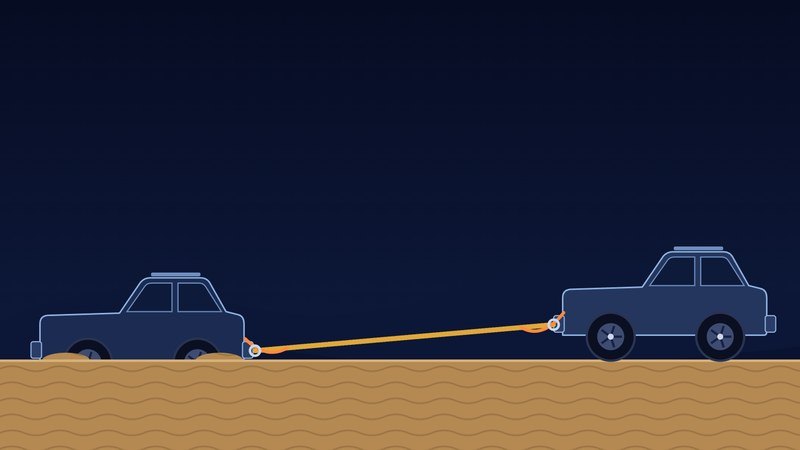
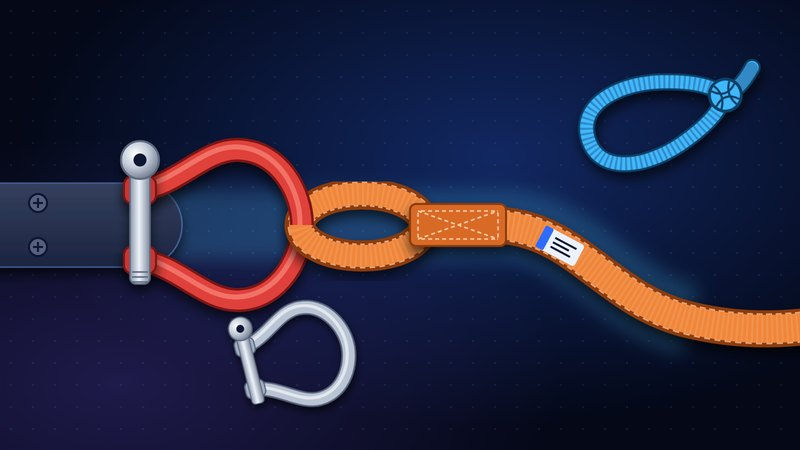
New card pictures: winch photo, and a drawing of shackles and a tow strap
Winch Planning and Sizing: the owner's own winch photo, cropped to 16:9.
Ropes and Shackles: a drawn flat lay of a tow strap through a bow shackle
on a recovery point, with a spare bow shackle and a soft shackle; its SVG
source is tools/ropes-card.html (noindex). Alt text and notes updated.

diff --git a/tools/ropes-card.html b/tools/ropes-card.html
@@ -1,0 +1,143 @@
+<!doctype html>
+<html><head><meta charset="utf-8"><meta name="robots" content="noindex">
+<!-- Source of assets/img/projects/ropes-recovery-gear.jpg (the Ropes and Shackles card).
+     Render at an 800x450 window, 2x scale (headless Edge/Chrome screenshot), then scale to 800x450 JPG. -->
+<style>html,body{margin:0;background:#040817}svg{display:block}</style></head>
+<body>
+<svg xmlns="http://www.w3.org/2000/svg" width="800" height="450" viewBox="0 0 800 450">
+  <defs>
+    <radialGradient id="glowA" cx="0.62" cy="0.35" r="0.6">
+      <stop offset="0" stop-color="#2f6bff" stop-opacity="0.32"/>
+      <stop offset="1" stop-color="#2f6bff" stop-opacity="0"/>
+    </radialGradient>
+    <radialGradient id="glowB" cx="0.15" cy="0.85" r="0.55">
+      <stop offset="0" stop-color="#7c5cff" stop-opacity="0.22"/>
+      <stop offset="1" stop-color="#7c5cff" stop-opacity="0"/>
+    </radialGradient>
+    <pattern id="dots" width="22" height="22" patternUnits="userSpaceOnUse">
+      <circle cx="11" cy="11" r="1" fill="#3fb6ff" fill-opacity="0.13"/>
+    </pattern>
+    <linearGradient id="plate" x1="0" y1="0" x2="0" y2="1">
+      <stop offset="0" stop-color="#34405e"/>
+      <stop offset="1" stop-color="#1b2440"/>
+    </linearGradient>
+    <linearGradient id="steel" x1="0" y1="0" x2="1" y2="0">
+      <stop offset="0" stop-color="#8a96aa"/>
+      <stop offset="0.45" stop-color="#eef3fa"/>
+      <stop offset="1" stop-color="#7d899d"/>
+    </linearGradient>
+    <radialGradient id="steelHead" cx="0.38" cy="0.35" r="0.7">
+      <stop offset="0" stop-color="#ffffff"/>
+      <stop offset="0.5" stop-color="#c3ccd9"/>
+      <stop offset="1" stop-color="#6d788c"/>
+    </radialGradient>
+    <filter id="shadow" x="-20%" y="-20%" width="140%" height="160%">
+      <feDropShadow dx="0" dy="7" stdDeviation="6" flood-color="#000" flood-opacity="0.65"/>
+    </filter>
+    <filter id="glow" filterUnits="userSpaceOnUse" x="-100" y="-100" width="1000" height="650">
+      <feGaussianBlur stdDeviation="9"/>
+    </filter>
+    <clipPath id="overTop"><rect x="0" y="0" width="800" height="225"/></clipPath>
+
+    <!-- a bow shackle, ears at x=0 (y -35 and +35), bow to the right -->
+    <path id="bowPath" d="M0,-35 C40,-41 65,-77 100,-75 C140,-73 162,-32 162,0 C162,32 140,73 100,75 C65,77 40,41 0,35"/>
+  </defs>
+
+  <!-- background -->
+  <rect width="800" height="450" fill="#040817"/>
+  <rect width="800" height="450" fill="url(#glowA)"/>
+  <rect width="800" height="450" fill="url(#glowB)"/>
+  <rect width="800" height="450" fill="url(#dots)"/>
+
+  <!-- soft glow behind the gear -->
+  <path d="M120,225 C300,225 420,225 500,225 C580,225 610,300 690,320" stroke="#4cc9ff" stroke-opacity="0.22" stroke-width="70" fill="none" filter="url(#glow)"/>
+
+  <!-- recovery point: a steel plate bolted on, coming in from the left -->
+  <g filter="url(#shadow)">
+    <path d="M-20,183 H140 A42,42 0 0 1 140,267 H-20 Z" fill="url(#plate)" stroke="#78aaff" stroke-opacity="0.35" stroke-width="1.5"/>
+    <circle cx="38" cy="203" r="9" fill="#55617d" stroke="#0b1330" stroke-width="2"/>
+    <circle cx="38" cy="247" r="9" fill="#55617d" stroke="#0b1330" stroke-width="2"/>
+    <path d="M33,203 h10 M38,198 v10 M33,247 h10 M38,242 v10" stroke="#0b1330" stroke-width="2"/>
+  </g>
+
+  <!-- red bow shackle on the recovery point (bow to the right) -->
+  <g transform="translate(140,225)">
+    <g filter="url(#shadow)">
+      <use href="#bowPath" fill="none" stroke="#7a1616" stroke-width="24" stroke-linecap="round"/>
+      <use href="#bowPath" fill="none" stroke="#e0413a" stroke-width="19" stroke-linecap="round"/>
+      <use href="#bowPath" fill="none" stroke="#ff9a8c" stroke-opacity="0.55" stroke-width="5" stroke-linecap="round" transform="translate(-2,-3)"/>
+    </g>
+  </g>
+
+  <!-- the strap's eye, looped round the bow -->
+  <g filter="url(#shadow)">
+    <ellipse cx="362" cy="225" rx="62" ry="31" fill="none" stroke="#8c3a10" stroke-width="31"/>
+    <ellipse cx="362" cy="225" rx="62" ry="31" fill="none" stroke="#ffc79a" stroke-opacity="0.75" stroke-width="25" stroke-dasharray="5 4"/>
+    <ellipse cx="362" cy="225" rx="62" ry="31" fill="none" stroke="#f0863a" stroke-width="22"/>
+    <ellipse cx="362" cy="225" rx="62" ry="31" fill="none" stroke="#ffffff" stroke-opacity="0.10" stroke-width="22" stroke-dasharray="2 3"/>
+  </g>
+
+  <!-- the top of the bow passes over the strap -->
+  <g clip-path="url(#overTop)">
+    <g transform="translate(140,225)">
+      <use href="#bowPath" fill="none" stroke="#7a1616" stroke-width="24" stroke-linecap="round"/>
+      <use href="#bowPath" fill="none" stroke="#e0413a" stroke-width="19" stroke-linecap="round"/>
+      <use href="#bowPath" fill="none" stroke="#ff9a8c" stroke-opacity="0.55" stroke-width="5" stroke-linecap="round" transform="translate(-2,-3)"/>
+    </g>
+  </g>
+
+  <!-- ears and pin -->
+  <g filter="url(#shadow)">
+    <rect x="124" y="176" width="32" height="28" rx="9" fill="#c93630" stroke="#7a1616" stroke-width="2"/>
+    <rect x="124" y="246" width="32" height="28" rx="9" fill="#c93630" stroke="#7a1616" stroke-width="2"/>
+    <rect x="130" y="168" width="20" height="116" rx="6" fill="url(#steel)" stroke="#5d6880" stroke-width="1.5"/>
+    <path d="M132,272 h16 M132,277 h16 M132,282 h16" stroke="#5d6880" stroke-width="1.5"/>
+    <circle cx="140" cy="160" r="19" fill="url(#steelHead)" stroke="#5d6880" stroke-width="2"/>
+    <circle cx="140" cy="160" r="6.5" fill="#0b1330"/>
+  </g>
+
+  <!-- main strap: sewn sleeve, then the strap running off to the right -->
+  <g filter="url(#shadow)">
+    <path d="M492,225 C575,225 605,300 690,320 C745,333 790,330 840,322" fill="none" stroke="#8c3a10" stroke-width="37"/>
+    <path d="M492,225 C575,225 605,300 690,320 C745,333 790,330 840,322" fill="none" stroke="#ffc79a" stroke-opacity="0.75" stroke-width="31" stroke-dasharray="6 4"/>
+    <path d="M492,225 C575,225 605,300 690,320 C745,333 790,330 840,322" fill="none" stroke="#f0863a" stroke-width="28"/>
+    <path d="M492,225 C575,225 605,300 690,320 C745,333 790,330 840,322" fill="none" stroke="#ffffff" stroke-opacity="0.10" stroke-width="28" stroke-dasharray="2 3"/>
+
+    <rect x="410" y="204" width="96" height="42" rx="6" fill="#d96b25" stroke="#8c3a10" stroke-width="2"/>
+    <!-- box stitch -->
+    <rect x="418" y="211" width="80" height="28" rx="3" fill="none" stroke="#ffe0c2" stroke-opacity="0.8" stroke-width="1.6" stroke-dasharray="4 3"/>
+    <path d="M418,211 L498,239 M418,239 L498,211" stroke="#ffe0c2" stroke-opacity="0.8" stroke-width="1.6" stroke-dasharray="4 3"/>
+  </g>
+
+  <!-- rating tag on the strap -->
+  <g transform="translate(560,246) rotate(28)">
+    <rect x="-22" y="-12" width="44" height="24" rx="3" fill="#eaf2ff"/>
+    <rect x="-22" y="-12" width="9" height="24" rx="2" fill="#2f6bff"/>
+    <path d="M-8,-5 h24 M-8,0 h18 M-8,5 h22" stroke="#0b1330" stroke-width="2"/>
+  </g>
+
+  <!-- a loose galvanised bow shackle -->
+  <g transform="translate(250,368) rotate(-14) scale(0.62)" filter="url(#shadow)">
+    <use href="#bowPath" fill="none" stroke="#56627a" stroke-width="24" stroke-linecap="round"/>
+    <use href="#bowPath" fill="none" stroke="#b9c4d4" stroke-width="19" stroke-linecap="round"/>
+    <use href="#bowPath" fill="none" stroke="#ffffff" stroke-opacity="0.6" stroke-width="5" stroke-linecap="round" transform="translate(-2,-3)"/>
+    <rect x="-16" y="-49" width="32" height="28" rx="9" fill="#a3afc2" stroke="#56627a" stroke-width="2"/>
+    <rect x="-16" y="21" width="32" height="28" rx="9" fill="#a3afc2" stroke="#56627a" stroke-width="2"/>
+    <rect x="-10" y="-57" width="20" height="116" rx="6" fill="url(#steel)" stroke="#56627a" stroke-width="1.5"/>
+    <circle cx="0" cy="-65" r="19" fill="url(#steelHead)" stroke="#56627a" stroke-width="2"/>
+    <circle cx="0" cy="-65" r="6.5" fill="#0b1330"/>
+  </g>
+
+  <!-- a soft shackle: a rope loop closed by a stopper knot -->
+  <g transform="translate(655,118) rotate(-18)" filter="url(#shadow)">
+    <path d="M-70,0 C-70,-38 -20,-46 25,-30 C55,-20 70,-8 70,0 C70,8 55,20 25,30 C-20,46 -70,38 -70,0 Z" fill="none" stroke="#0f3f66" stroke-width="17"/>
+    <path d="M-70,0 C-70,-38 -20,-46 25,-30 C55,-20 70,-8 70,0 C70,8 55,20 25,30 C-20,46 -70,38 -70,0 Z" fill="none" stroke="#3fb8ff" stroke-width="13"/>
+    <path d="M-70,0 C-70,-38 -20,-46 25,-30 C55,-20 70,-8 70,0 C70,8 55,20 25,30 C-20,46 -70,38 -70,0 Z" fill="none" stroke="#0b1330" stroke-opacity="0.28" stroke-width="13" stroke-dasharray="2 3"/>
+    <path d="M70,0 C85,0 95,-6 108,-18" fill="none" stroke="#0f3f66" stroke-width="17" stroke-linecap="round"/>
+    <path d="M70,0 C85,0 95,-6 108,-18" fill="none" stroke="#3fb8ff" stroke-width="13" stroke-linecap="round"/>
+    <path d="M70,0 C85,0 95,-6 108,-18" fill="none" stroke="#0b1330" stroke-opacity="0.28" stroke-width="13" stroke-dasharray="2 3" stroke-linecap="round"/>
+    <circle cx="74" cy="0" r="16" fill="#3fb8ff" stroke="#0f3f66" stroke-width="3"/>
+    <path d="M62,-8 Q74,4 86,-8 M62,8 Q74,-4 86,8 M66,-12 Q74,0 66,12 M82,-12 Q74,0 82,12" fill="none" stroke="#0f3f66" stroke-width="2.2"/>
+  </g>
+</svg>
+</body></html>

diff --git a/projects.js b/projects.js
@@ -19,8 +19,8 @@ window.PROJECTS = [
   { kind: "tool", title: "SA Fuel Price Preview", description: "Fuel price predictions for South Africa, so you know what's coming at the pump before the official announcement.", url: "https://fuel.psyphin.co.za/", cta: "View predictions", image: "assets/img/projects/fuel-chart.jpg", imageAlt: "Chart of the daily Basic Fuel Price against the price built into the pump price, with estimated days marked", updated: "Live data, updated hourly", tags: ["Data", "South Africa", { label: "Actively maintained", color: "green" }] },
   { kind: "tool", title: "SA Towing Check", description: "Is your car or bakkie plus trailer legal? Checks your licence code, trailer brakes, speed limit and overloading, plus payload and towing ratings, with a source for every rule.", url: "https://towing.psyphin.co.za/", cta: "Check your rig", image: "assets/img/projects/sa-towing-check.jpg", imageAlt: "Side-view diagram of a bakkie towing a trailer, with the mass on each axle and on the tow ball", updated: "Launched 29 Sep 2026", tags: ["Towing", "South Africa", { label: "Actively maintained", color: "green" }] },
   { kind: "tool", title: "4x4 Tyre Pressures", description: "A starting tyre pressure range for your 4x4's tyres, load and terrain. Based on tyre-maker load tables and published guidance. Works offline.", url: "https://tyres.psyphin.co.za/", cta: "Work out pressures", image: "assets/img/projects/sa-tyre-pressures.jpg", imageAlt: "Two 4x4s on the crest of a red sand dune at the Amam Dunes, Northern Cape", updated: "Started 8 Oct 2026", tags: ["4x4", "South Africa", { label: "Actively maintained", color: "green" }] },
-  { kind: "tool", title: "Winch Planning and Sizing", description: "Work out how hard your winch has to pull to get you out, what a double or triple line does, and how hard your winch and battery are working.", url: "https://winching.psyphin.co.za/", cta: "Size your recovery", image: "assets/img/projects/winch-recovery-sizing.jpg", imageAlt: "Drawing of a 4x4 bogged in mud on a slope, winching itself out with a double line through a snatch block at a tree 15 m away", updated: "Started 11 Sep 2026", tags: ["4x4", "Recovery", { label: "Actively maintained", color: "green" }] },
-  { kind: "tool", title: "Ropes and Shackles", description: "Work out the load a snatch puts on your strap or kinetic rope and shackles, and which one suits your two vehicles. Also explains what safety lanyards, tree protectors and bridles are for.", url: "https://ropes.psyphin.co.za/", cta: "Check your gear", image: "assets/img/projects/ropes-recovery-gear.jpg", imageAlt: "Drawing of a 4x4 sunk in sand being snatched out by a second 4x4 on a kinetic rope, with a safety lanyard at each end", updated: "Started 12 Oct 2026", tags: ["4x4", "Recovery", { label: "Actively maintained", color: "green" }] },
+  { kind: "tool", title: "Winch Planning and Sizing", description: "Work out how hard your winch has to pull to get you out, what a double or triple line does, and how hard your winch and battery are working.", url: "https://winching.psyphin.co.za/", cta: "Size your recovery", image: "assets/img/projects/winch-recovery-sizing.jpg", imageAlt: "A black electric winch with red-flecked synthetic rope on its drum, fitted behind a 4x4's front bumper, the rope running out through an aluminium hawse fairlead", updated: "Started 11 Sep 2026", tags: ["4x4", "Recovery", { label: "Actively maintained", color: "green" }] },
+  { kind: "tool", title: "Ropes and Shackles", description: "Work out the load a snatch puts on your strap or kinetic rope and shackles, and which one suits your two vehicles. Also explains what safety lanyards, tree protectors and bridles are for.", url: "https://ropes.psyphin.co.za/", cta: "Check your gear", image: "assets/img/projects/ropes-recovery-gear.jpg", imageAlt: "Drawing of recovery gear laid out: an orange tow strap's stitched eye through a red bow shackle on a recovery point, with a spare steel bow shackle and a blue soft shackle beside it", updated: "Started 12 Oct 2026", tags: ["4x4", "Recovery", { label: "Actively maintained", color: "green" }] },
   { kind: "tool", title: "EV vs Fuel Cost", description: "Compare the cost per km of an electric car against petrol or diesel. Uses today's fuel price, your own electricity tariff and public or N3 fast charger prices. Also has a road trip planner and a break-even for buyers.", url: "https://evcost.psyphin.co.za/", cta: "Compare costs", image: "assets/img/projects/ev-cost.jpg", imageAlt: "Bar chart of the cost per 100 km: a petrol car at R227 against an electric car at R61 to R125 depending on where it charges", updated: "Started 13 Oct 2026", tags: ["Motoring", "South Africa", { label: "Actively maintained", color: "green" }] },
   { kind: "tool", title: "Which Two-Way Radio?", description: "Licence-free UHF or club VHF, handheld or fitted, which antenna, where to get a VHF licence and which radios are illegal in South Africa. Based on ICASA's rules.", url: "https://radio.psyphin.co.za/", cta: "Find your radio", image: "assets/img/projects/which-radio.jpg", imageAlt: "Diagram of a 4x4 with a roof antenna, its two antenna radiation patterns, and a second 4x4 higher up a slope", updated: "Started 20 Oct 2026", tags: ["4x4", "Radio", { label: "Under construction", color: "amber" }] },
   { title: "Digital Radio Hotspot", description: "A true-duplex DMR hotspot on a Raspberry Pi 3B with an MMDVM dual hat, running WPSD and linking a handheld radio to the BrandMeister network.", url: "dmr-hotspot/", cta: "View project", image: "assets/img/projects/dmr-gem.jpg", imageAlt: "The hotspot in its blue 3D-printed case, with two antennas and glowing status lights", updated: "Updated 27 Sep 2026", tags: ["DMR", "Raspberry Pi", { label: "Endurance testing", color: "green" }] },

diff --git a/CLAUDE.md b/CLAUDE.md
@@ -143,12 +143,12 @@ Because this is the `psyphin234.github.io` **user site** with a custom domain, *
 - Repo `psyphin234/winch-recovery-sizing` (public, since 2026-10-11), local folder `E:\Claude_projects\Winch_Calc`, which has its own CLAUDE.md. **Do winch-calculator work from that folder.**
 - Lives at **https://winching.psyphin.co.za/** since 2026-10-12 (its own `CNAME` plus the Afrihost `winching` CNAME; HTTPS enforced). The first address, `psyphin.co.za/winch-recovery-sizing/`, redirects there. Don't create a `winch-recovery-sizing/` folder here.
 - Card title **Winch Planning and Sizing** since 2026-10-12 (owner's call; it was "Winch & Recovery Sizing"). The tool's own pages use the same name.
-- Finished (owner, 2026-10-14): banner and noindex removed from its pages, card tag green "Actively maintained" (amber "Under construction" before). Card image `assets/img/projects/winch-recovery-sizing.jpg` is the calculator's own side-view picture (a 4x4 bogged to the axles in mud on a 12° slope, double line to a tree 15 m away), rendered at 800x450 with extra sky for the 16:9 crop (since 2026-10-12; before that, the rope diagram). Recaptured in the navy look 2026-10-19 (headless Chrome, 800 px window at 2x, reduced motion, the scene's viewBox widened to 0 -70 800 450 with the sky stretched to match, the typed fields hidden).
+- Finished (owner, 2026-10-14): banner and noindex removed from its pages, card tag green "Actively maintained" (amber "Under construction" before). Card image `assets/img/projects/winch-recovery-sizing.jpg` is the owner's own photo of a winch (black, synthetic rope with red flecks, aluminium hawse fairlead) since 2026-10-26, owner's request: `E:\Claude_projects\Winch_Calc\img\winch.jpeg` (1024x768, no EXIF) cropped to 1024x576 from y=30 and scaled to 800x450. Before that it was the calculator's own side-view picture (a 4x4 bogged in mud on a slope, double line to a tree), and before 2026-10-12 the rope diagram.
 
 ### Ropes and Shackles
 
 - Repo `psyphin234/ropes-recovery-gear` (public), local folder `E:\Claude_projects\Ropes_Recovery`, which has its own CLAUDE.md. **Do ropes-page work from that folder.** Lives at **https://ropes.psyphin.co.za/** (its own `CNAME` plus the Afrihost `ropes` CNAME).
-- Card added 2026-10-12 at the owner's request, titled **Ropes and Shackles**; the page uses the same name (it was "Ropes & Recovery Gear" until 2026-10-12). Finished (owner, 2026-10-14): banner and noindex removed from its pages, card tag green "Actively maintained" (amber "Under construction" before). Card image `assets/img/projects/ropes-recovery-gear.jpg` is the page's own side-view scene (stuck 4x4 sunk in sand, kinetic rope tight, a safety lanyard at each end), rendered at 800x450 with extra sky for the 16:9 crop.
+- Card added 2026-10-12 at the owner's request, titled **Ropes and Shackles**; the page uses the same name (it was "Ropes & Recovery Gear" until 2026-10-12). Finished (owner, 2026-10-14): banner and noindex removed from its pages, card tag green "Actively maintained" (amber "Under construction" before). Card image `assets/img/projects/ropes-recovery-gear.jpg` is a made-up drawing since 2026-10-26 (owner's request: "something to do with shackles and tow straps"): recovery gear laid out top-down on the navy background, an orange tow strap's stitched eye through a red bow shackle pinned to a recovery point, a spare galvanised bow shackle and a blue soft shackle. Its source is `tools/ropes-card.html` (one SVG): render it with headless Edge or Chrome at an 800x450 window and 2x scale, then scale the PNG to 800x450 JPG. Before that it was the page's own side-view scene (stuck 4x4 in sand, kinetic rope tight).
 - Its visits show in GoatCounter as `ropes.psyphin.co.za/` (host-prefix snippet).
 
 ### 4x4 Tyre Pressures
